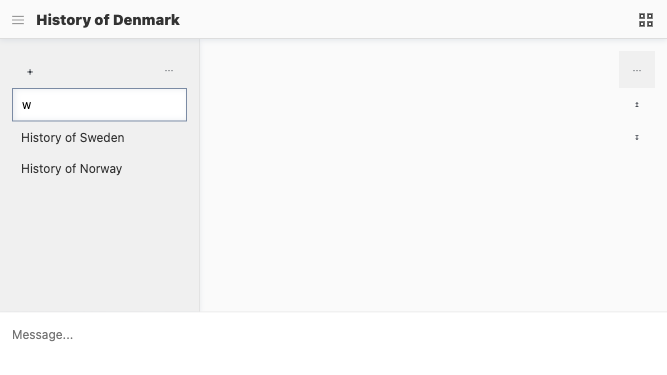
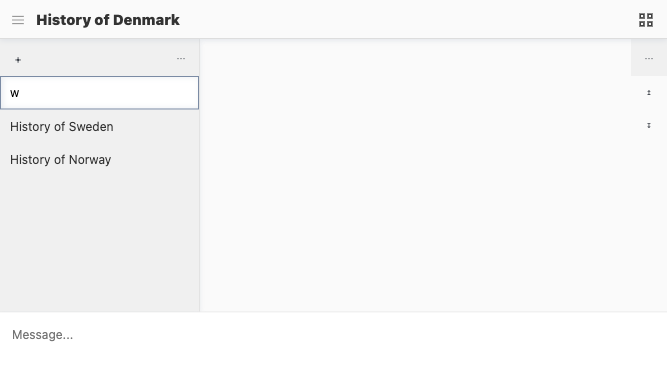
Add animations

diff --git a/dist/theme.7fcc2895.css b/dist/theme.7fcc2895.css
@@ -420,15 +420,17 @@ svg {
 }
 */
 .modal {
-  display: none;
+  display: flex;
   position: fixed;
   top: 0;
   left: 0;
   width: 100%;
   height: 100%;
   background-color: rgba(0, 0, 0, 0.5); /* semi-transparent background */
-  z-index: 1000; /* ensures modal is on top */
+  z-index: -1; /* Start behind other elements */
   overflow: scroll;
+  opacity: 0; /* Start invisible */
+  pointer-events: none; /* Prevent interaction when modal is not visible */
 }
 
 .modal-header {
@@ -465,7 +467,7 @@ svg {
 
 .modal.show {
   z-index: 20000;
-  display: flex;
+  opacity: 1; /* Fully visible */
 }
 
 label {
@@ -515,6 +517,7 @@ ul {
   width: 100%;
 }
 ul li {
+  border: 1px solid transparent; /* Invisible border by default */
   position: relative;
   display: flex; /* Use flexbox layout */
   justify-content: left;
@@ -537,13 +540,16 @@ ul li button {
   visibility: hidden;
 }
 ul li.selected {
-  border-top: 1px solid rgba(204, 204, 204, 0.368627451);
+  border-top-color: rgba(204, 204, 204, 0.368627451);
 }
 ul li.selected::after {
   position: absolute;
   right: 1rem;
   padding-left: 0.5rem;
   content: "› ";
+}
+ul li.hover {
+  border-top-color: rgba(204, 204, 204, 0.368627451);
 }
 ul li.hover button {
   visibility: visible;
@@ -688,6 +694,29 @@ a {
 
 .text-right {
   text-align: right;
+}
+
+ul li {
+  transition: all 0.3s;
+}
+
+#sidebar {
+  transition: min-width 0.5s ease-out, max-width 1s ease-out;
+}
+
+#sidebar.collapsed {
+  transition: min-width 0.5s ease-in, max-width 1s ease-in;
+}
+
+.modal {
+  transform: scale(0.9); /* Start slightly scaled down */
+  transition: opacity 0.5s ease, transform 0.5s ease-in; /* Transition effect */
+}
+
+.modal.show {
+  transition: opacity 0.5s ease, transform 1s ease-out; /* Transition effect */
+  transform: scale(1); /* Scale to original size */
+  pointer-events: auto; /* Allow interactions */
 }
 
 @media (width <= 1024px) {
@@ -855,11 +884,6 @@ a {
   overflow: hidden;
 }
 
-aside {
-  padding: 1rem;
-}
-
-/* Sidebar styling */
 #sidebar {
   background-color: var(--secondary-bg-color);
   border-right: 1px solid rgba(204, 204, 204, 0.368627451);
@@ -878,8 +902,8 @@ aside {
 }
 
 #sidebar.collapsed {
+  min-width: 0;
   max-width: 0;
-  display: none;
   padding: 0;
 }
 
@@ -928,6 +952,29 @@ aside {
 
 .notification-error {
   background: var(--error-color);
+}
+
+.speech {
+  position: relative;
+  background: #f0f0f0;
+  border: var(--border) solid black;
+  padding: 20px;
+  border-radius: 10px;
+  margin: 40px;
+  max-width: 300px;
+}
+
+.speech::after {
+  content: "";
+  position: absolute;
+  border-style: solid;
+  border-width: 10px 20px 10px 0;
+  border-color: transparent #f0f0f0 transparent transparent;
+  display: block;
+  width: 0;
+  z-index: 1;
+  left: -20px;
+  top: calc(50% - 10px);
 }
 
 /*# sourceMappingURL=/theme.7fcc2895.css.map */

diff --git a/dist/index.js b/dist/index.js
@@ -168,11 +168,7 @@ function reloadCSS() {
   }, 50);
 }
 module.exports = reloadCSS;
-},{"./bundle-url":"../../../../../usr/local/lib/node_modules/parcel-bundler/src/builtins/bundle-url.js"}],"css/theme.scss":[function(require,module,exports) {
-var reloadCSS = require('_css_loader');
-module.hot.dispose(reloadCSS);
-module.hot.accept(reloadCSS);
-},{"_css_loader":"../../../../../usr/local/lib/node_modules/parcel-bundler/src/builtins/css-loader.js"}],"../../../../../usr/local/lib/node_modules/parcel-bundler/src/builtins/hmr-runtime.js":[function(require,module,exports) {
+},{"./bundle-url":"../../../../../usr/local/lib/node_modules/parcel-bundler/src/builtins/bundle-url.js"}],"../../../../../usr/local/lib/node_modules/parcel-bundler/src/builtins/hmr-runtime.js":[function(require,module,exports) {
 var global = arguments[3];
 var OVERLAY_ID = '__parcel__error__overlay__';
 var OldModule = module.bundle.Module;
@@ -342,4 +338,4 @@ function hmrAcceptRun(bundle, id) {
   }
 }
 },{}]},{},["../../../../../usr/local/lib/node_modules/parcel-bundler/src/builtins/hmr-runtime.js"], null)
-//# sourceMappingURL=/theme.7fcc2895.js.map
+//# sourceMappingURL=/index.js.map

diff --git a/css/animations.scss b/css/animations.scss
@@ -1,0 +1,28 @@
+// Lists
+ul {
+    li {
+        transition: all 0.3s;
+    }
+}
+
+// Sidebar
+#sidebar {
+    transition: min-width  0.5s ease-out, max-width 1s ease-out;
+}
+
+#sidebar.collapsed {
+    transition: min-width 0.5s ease-in, max-width 1s ease-in;
+}
+
+// Modal dialogs
+.modal {
+  transform: scale(0.9); /* Start slightly scaled down */
+  transition: opacity 0.5s ease, transform 0.5s ease-in; /* Transition effect */
+}
+
+.modal.show {
+  transition: opacity 0.5s ease, transform 1s ease-out; /* Transition effect */
+  transform: scale(1); /* Scale to original size */
+  pointer-events: auto; /* Allow interactions */
+}
+

diff --git a/css/modal.scss b/css/modal.scss
@@ -1,13 +1,15 @@
 .modal {
-  display: none;
+  display: flex; // Positioned behind other elements so not visible
   position: fixed;
   top: 0;
   left: 0;
   width: 100%;
   height: 100%;
   background-color: rgb(0 0 0 / 50%); /* semi-transparent background */
-  z-index: 1000; /* ensures modal is on top */
+  z-index: -1; /* Start behind other elements */
   overflow: scroll;
+  opacity: 0; /* Start invisible */
+  pointer-events: none; /* Prevent interaction when modal is not visible */
 }
 
 .modal-header {
@@ -52,5 +54,5 @@
 
 .modal.show {
   z-index: 20000;
-  display: flex;
+  opacity: 1; /* Fully visible */
 }

diff --git a/css/list.scss b/css/list.scss
@@ -5,6 +5,7 @@ ul {
   width: 100%;
 
   li {
+    border: 1px solid transparent; /* Invisible border by default */
     position: relative;
     display: flex; /* Use flexbox layout */
     justify-content: left;
@@ -34,7 +35,7 @@ ul {
     @extend %font-weight-boldest;
 
     // NOTE: Should match #chat-header border-bottom
-    border-top: 1px solid #cccccc5e;
+    border-top-color: #cccccc5e;
   }
 
   li.selected::after {
@@ -45,6 +46,8 @@ ul {
   }
 
   li.hover {
+    border-top-color: #cccccc5e;
+
     button {
       visibility: visible;
     }

diff --git a/css/SpeechBubble.scss b/css/SpeechBubble.scss
@@ -1,0 +1,22 @@
+.speech {
+    position: relative;
+    background: #f0f0f0;
+    border: var(--border) solid black;
+    padding: 20px;
+    border-radius: 10px;
+    margin: 40px;
+    max-width: 300px;
+}
+
+.speech::after {
+    content: '';
+    position: absolute;
+    border-style: solid;
+    border-width: 10px 20px 10px 0;
+    border-color: transparent #f0f0f0 transparent transparent;
+    display: block;
+    width: 0;
+    z-index: 1;
+    left: -20px;
+    top: calc(50% - 10px);
+}

diff --git a/dist/script.d573be0b.js b/dist/script.d573be0b.js
@@ -2086,7 +2086,7 @@ var parent = module.bundle.parent;
 if ((!parent || !parent.isParcelRequire) && typeof WebSocket !== 'undefined') {
   var hostname = "" || location.hostname;
   var protocol = location.protocol === 'https:' ? 'wss' : 'ws';
-  var ws = new WebSocket(protocol + '://' + hostname + ':' + "59983" + '/');
+  var ws = new WebSocket(protocol + '://' + hostname + ':' + "61771" + '/');
   ws.onmessage = function (event) {
     checkedAssets = {};
     assetsToAccept = [];

diff --git a/css/Sidebar.scss b/css/Sidebar.scss
@@ -1,14 +1,7 @@
-aside {
-  padding: 1rem;
-}
-
-/* Sidebar styling */
 #sidebar {
   @extend %box-shadow;
 
   background-color: var(--secondary-bg-color);
-
-  // NOTE: This should be the same as chat-header border-bottom
   border-right: 1px solid #cccccc5e;
   min-width: 200px;
   max-width: 480px;
@@ -26,7 +19,7 @@ aside {
 }
 
 #sidebar.collapsed {
+  min-width: 0;
   max-width: 0;
-  display: none;
   padding: 0;
 }

diff --git a/js/App.test.js b/js/App.test.js
@@ -329,6 +329,7 @@ test.describe('Application tests', { only: true }, () => {
       await app.screenshot('chat.png');
       // Collapse
       await app.page.click('#hamburger-menu');
+      await app.page.waitForTimeout(500); // Wait for 500 milliseconds to allow animation to complete
       await app.screenshot('chat-collapsed.png');
     });
 

diff --git a/css/theme.scss b/css/theme.scss
@@ -12,6 +12,7 @@
 @import 'utils';
 @import 'spinner';
 @import 'style';
+@import 'animations';
 @import 'responsive';
 
 // Components
@@ -27,3 +28,4 @@
 @import 'Sidebar';
 @import 'DropDownMenu';
 @import 'UINotification';
+@import 'SpeechBubble';
